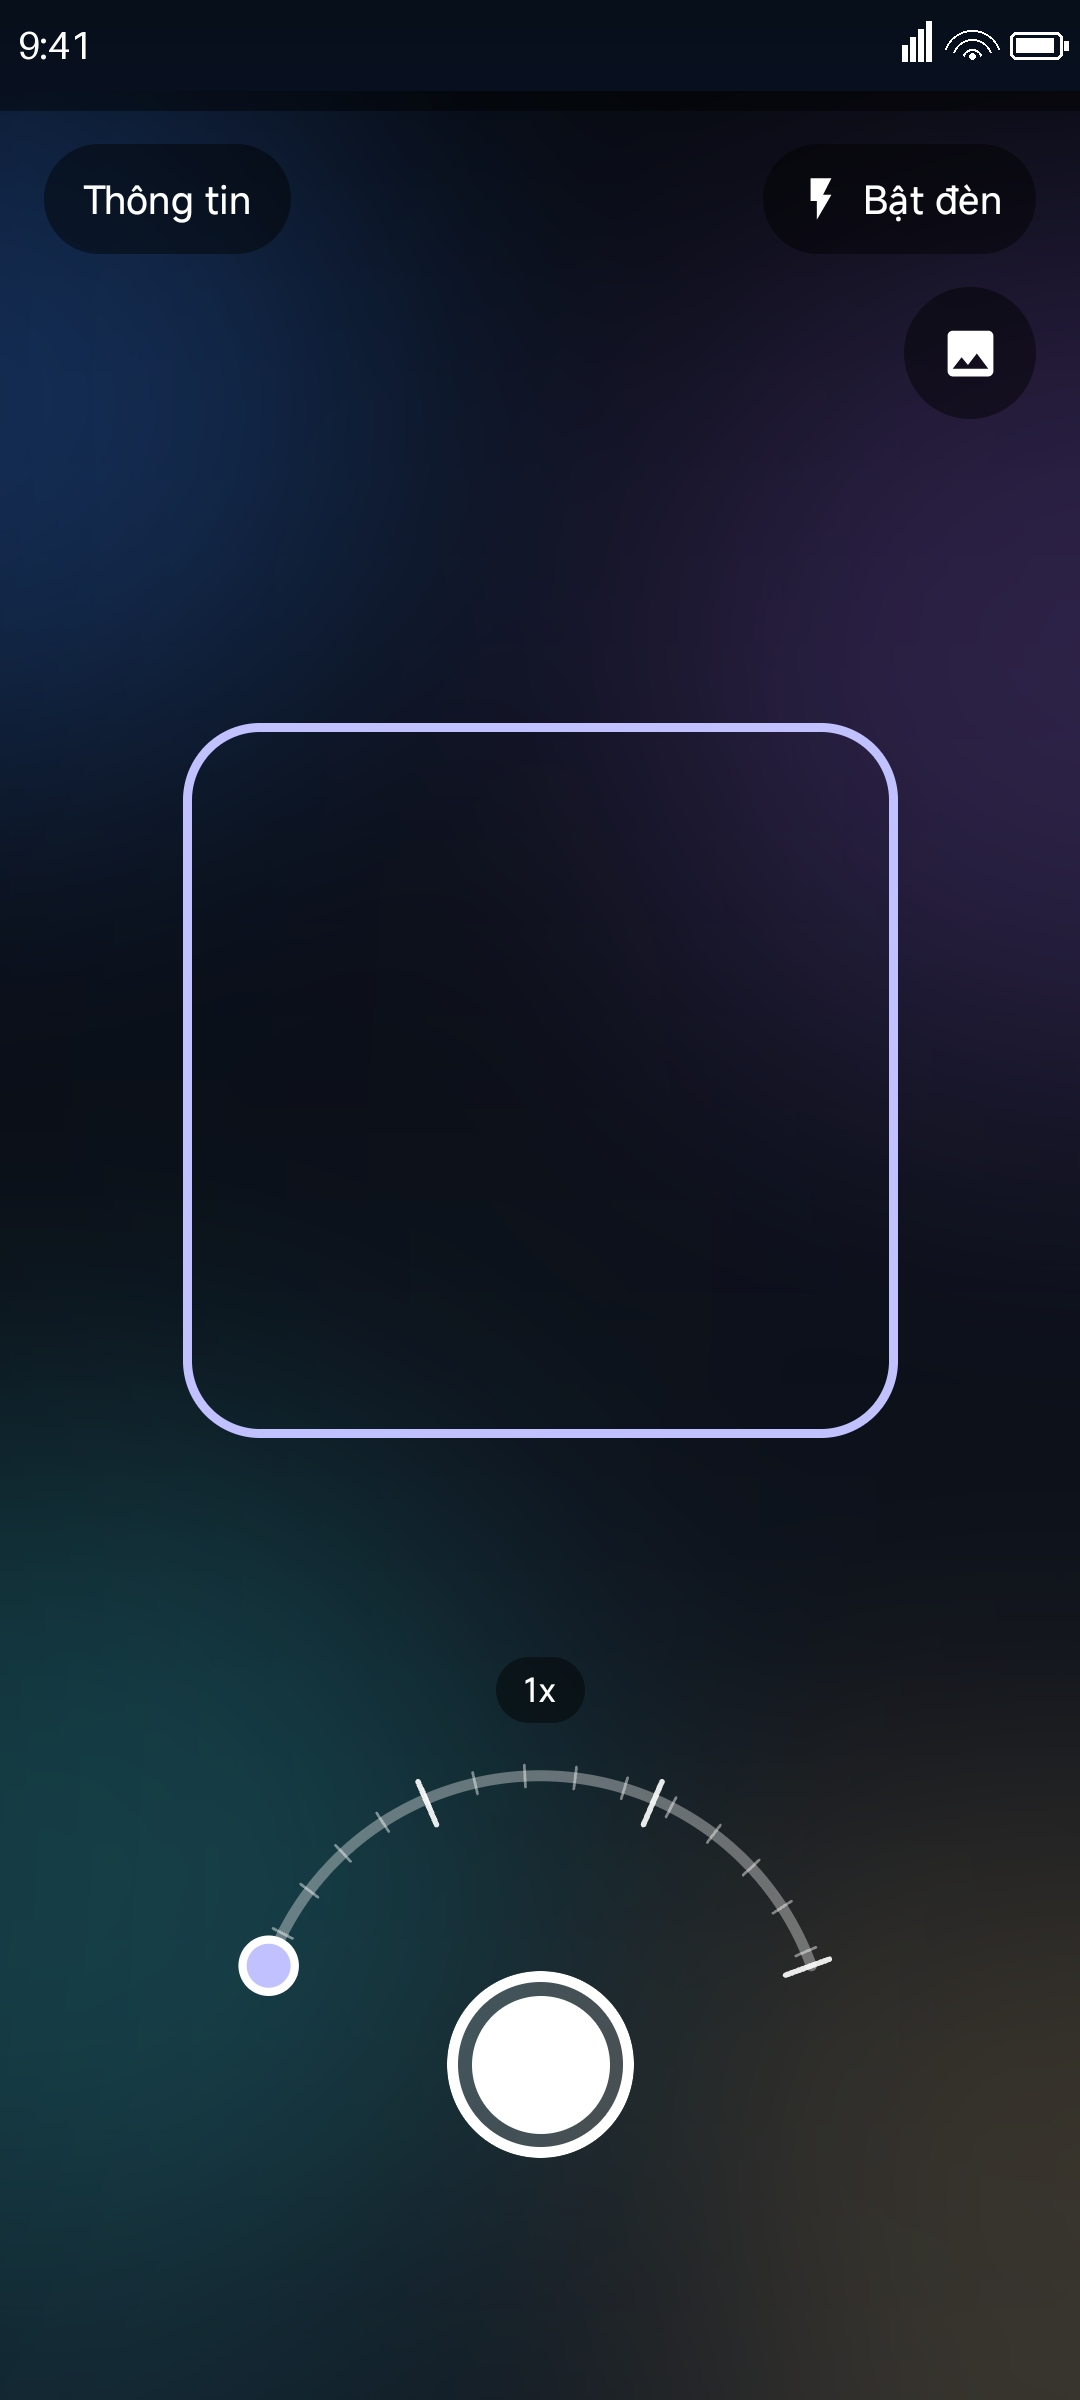
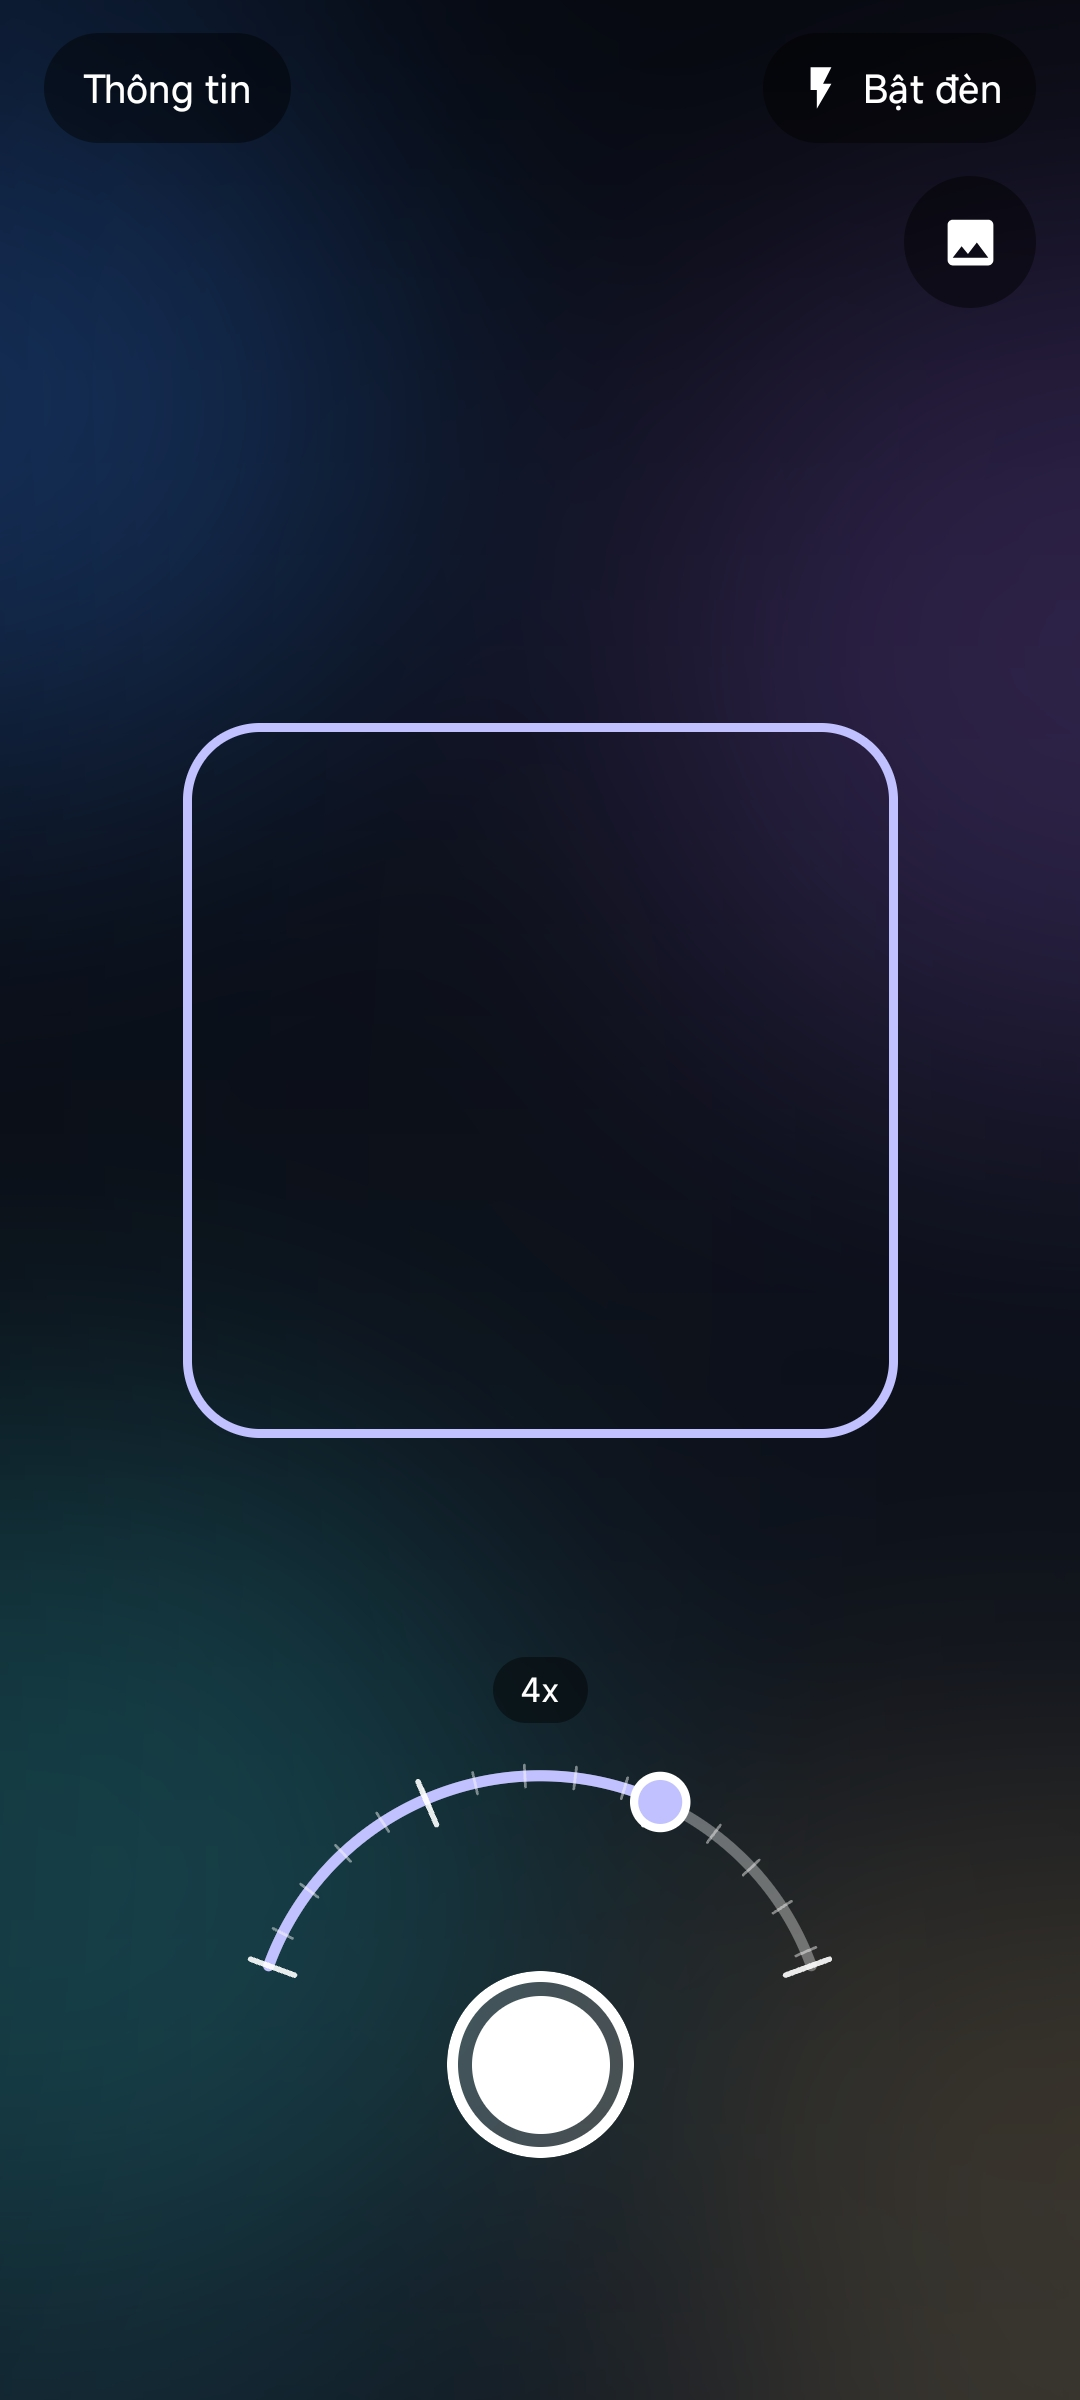
docs: keep screenshot metadata stripping only
Demo mode now hides the status bar, so the screenshot tool only re-encodes the image to drop EXIF and similar metadata.

diff --git a/tools/sanitize_screenshot.py b/tools/sanitize_screenshot.py
@@ -1,12 +1,11 @@
 #!/usr/bin/env python3
-"""Replace a phone status bar with a neutral mock and strip image metadata.
+"""Re-encode a screenshot as a metadata-free PNG.
 
 Usage:
-    python3 tools/sanitize_screenshot.py input.png output.png \\
-        [--status-height PX] [--time 9:41]
+    python3 tools/sanitize_screenshot.py input.jpg output.png
 
-The original pixels below the status bar are left untouched. The output is
-re-encoded as RGB PNG so EXIF, XMP, ICC and similar metadata are dropped.
+The image is copied pixel for pixel into a fresh RGB PNG, so EXIF, XMP, ICC,
+JFIF and similar metadata blocks are dropped. No visual processing is done.
 """
 
 from __future__ import annotations
@@ -14,102 +13,14 @@ from __future__ import annotations
 import argparse
 from pathlib import Path
 
-from PIL import Image, ImageDraw, ImageFont
+from PIL import Image
 
 
 def parse_args() -> argparse.Namespace:
     parser = argparse.ArgumentParser(description=__doc__)
     parser.add_argument("input", type=Path)
     parser.add_argument("output", type=Path)
-    parser.add_argument(
-        "--status-height",
-        type=int,
-        default=0,
-        help="Height of the status bar in pixels (default: 8.4%% of width)",
-    )
-    parser.add_argument("--time", default="9:41")
     return parser.parse_args()
-
-
-def status_height(width: int, requested: int) -> int:
-    if requested > 0:
-        return requested
-    return max(48, round(width * 0.084))
-
-
-def mock_bar(image: Image.Image, height: int, clock: str) -> Image.Image:
-    width = image.width
-    top = image.getpixel((0, 0))
-    bottom = image.getpixel((0, min(height, image.height - 1)))
-
-    bar = Image.new("RGB", (width, height))
-    draw = ImageDraw.Draw(bar)
-    for y in range(height):
-        t = y / max(1, height - 1)
-        draw.line(
-            [(0, y), (width, y)],
-            fill=tuple(round(top[i] + (bottom[i] - top[i]) * t) for i in range(3)),
-        )
-
-    inset = max(10, height // 5)
-    text_size = max(12, int(height * 0.42))
-    try:
-        font = ImageFont.load_default(size=text_size)
-    except TypeError:
-        font = ImageFont.load_default()
-
-    draw.text((inset, height // 2), clock, font=font, fill="white", anchor="lm")
-
-    right = width - inset
-    # Battery
-    battery_w, battery_h = int(height * 0.58), int(height * 0.30)
-    bx = right - battery_w
-    by = (height - battery_h) // 2
-    draw.rounded_rectangle(
-        [bx, by, bx + battery_w, by + battery_h],
-        radius=max(2, battery_h // 4),
-        outline="white",
-        width=max(2, height // 28),
-    )
-    draw.rectangle(
-        [bx + battery_w + 2, by + battery_h // 3, bx + battery_w + 6, by + 2 * battery_h // 3],
-        fill="white",
-    )
-    fill_w = int(battery_w * 0.72)
-    draw.rectangle(
-        [bx + battery_w // 8, by + battery_h // 4, bx + battery_w // 8 + fill_w, by + 3 * battery_h // 4],
-        fill="white",
-    )
-
-    # Wi-Fi
-    wifi_cx = bx - int(height * 0.42)
-    wifi_cy = by + battery_h
-    for i, radius in enumerate((int(height * 0.32), int(height * 0.22), int(height * 0.12))):
-        draw.arc(
-            [wifi_cx - radius, wifi_cy - radius, wifi_cx + radius, wifi_cy + radius],
-            200,
-            340,
-            fill="white",
-            width=max(2, height // 32),
-        )
-    draw.ellipse(
-        [wifi_cx - 3, wifi_cy - 6, wifi_cx + 3, wifi_cy],
-        fill="white",
-    )
-
-    # Signal bars
-    signal_right = wifi_cx - int(height * 0.42)
-    bar_w = max(4, height // 16)
-    gap = max(3, height // 24)
-    for i in range(4):
-        h = int(height * (0.18 + i * 0.09))
-        x1 = signal_right - (4 - i) * (bar_w + gap)
-        draw.rectangle(
-            [x1, height // 2 + int(height * 0.18) - h, x1 + bar_w, height // 2 + int(height * 0.18)],
-            fill="white",
-        )
-
-    return bar
 
 
 def main() -> None:
@@ -118,17 +29,12 @@ def main() -> None:
         source.load()
         image = source.convert("RGB")
 
-    height = status_height(image.width, args.status_height)
-    bar = mock_bar(image, height, args.time)
-    image.paste(bar, (0, 0))
-
-    # Re-encode a fresh RGB image so all metadata blocks are discarded.
     clean = Image.new("RGB", image.size)
     clean.paste(image)
 
     args.output.parent.mkdir(parents=True, exist_ok=True)
     clean.save(args.output, format="PNG", optimize=True)
-    print(f"wrote {args.output} ({clean.width}x{clean.height}, status bar {height}px)")
+    print(f"wrote {args.output} ({clean.width}x{clean.height})")
 
 
 if __name__ == "__main__":

diff --git a/README.md b/README.md
@@ -78,6 +78,8 @@ Required repository secrets:
   decodes it, which extends the usable distance beyond the preview stream.
 - Raw payloads that are not a supported VietQR can be copied, shared, or
   opened in a browser when the content is a plain HTTP(S) URL.
+- Demo mode hides the system status bar. Tap the version line five times in
+  the credits dialog to toggle it.
 - The amount is rounded to two decimal places of the thousands value.
 - After a successful handoff the camera stops and a clipboard countdown is
   shown; tap **Quét mã khác** to scan another code.
